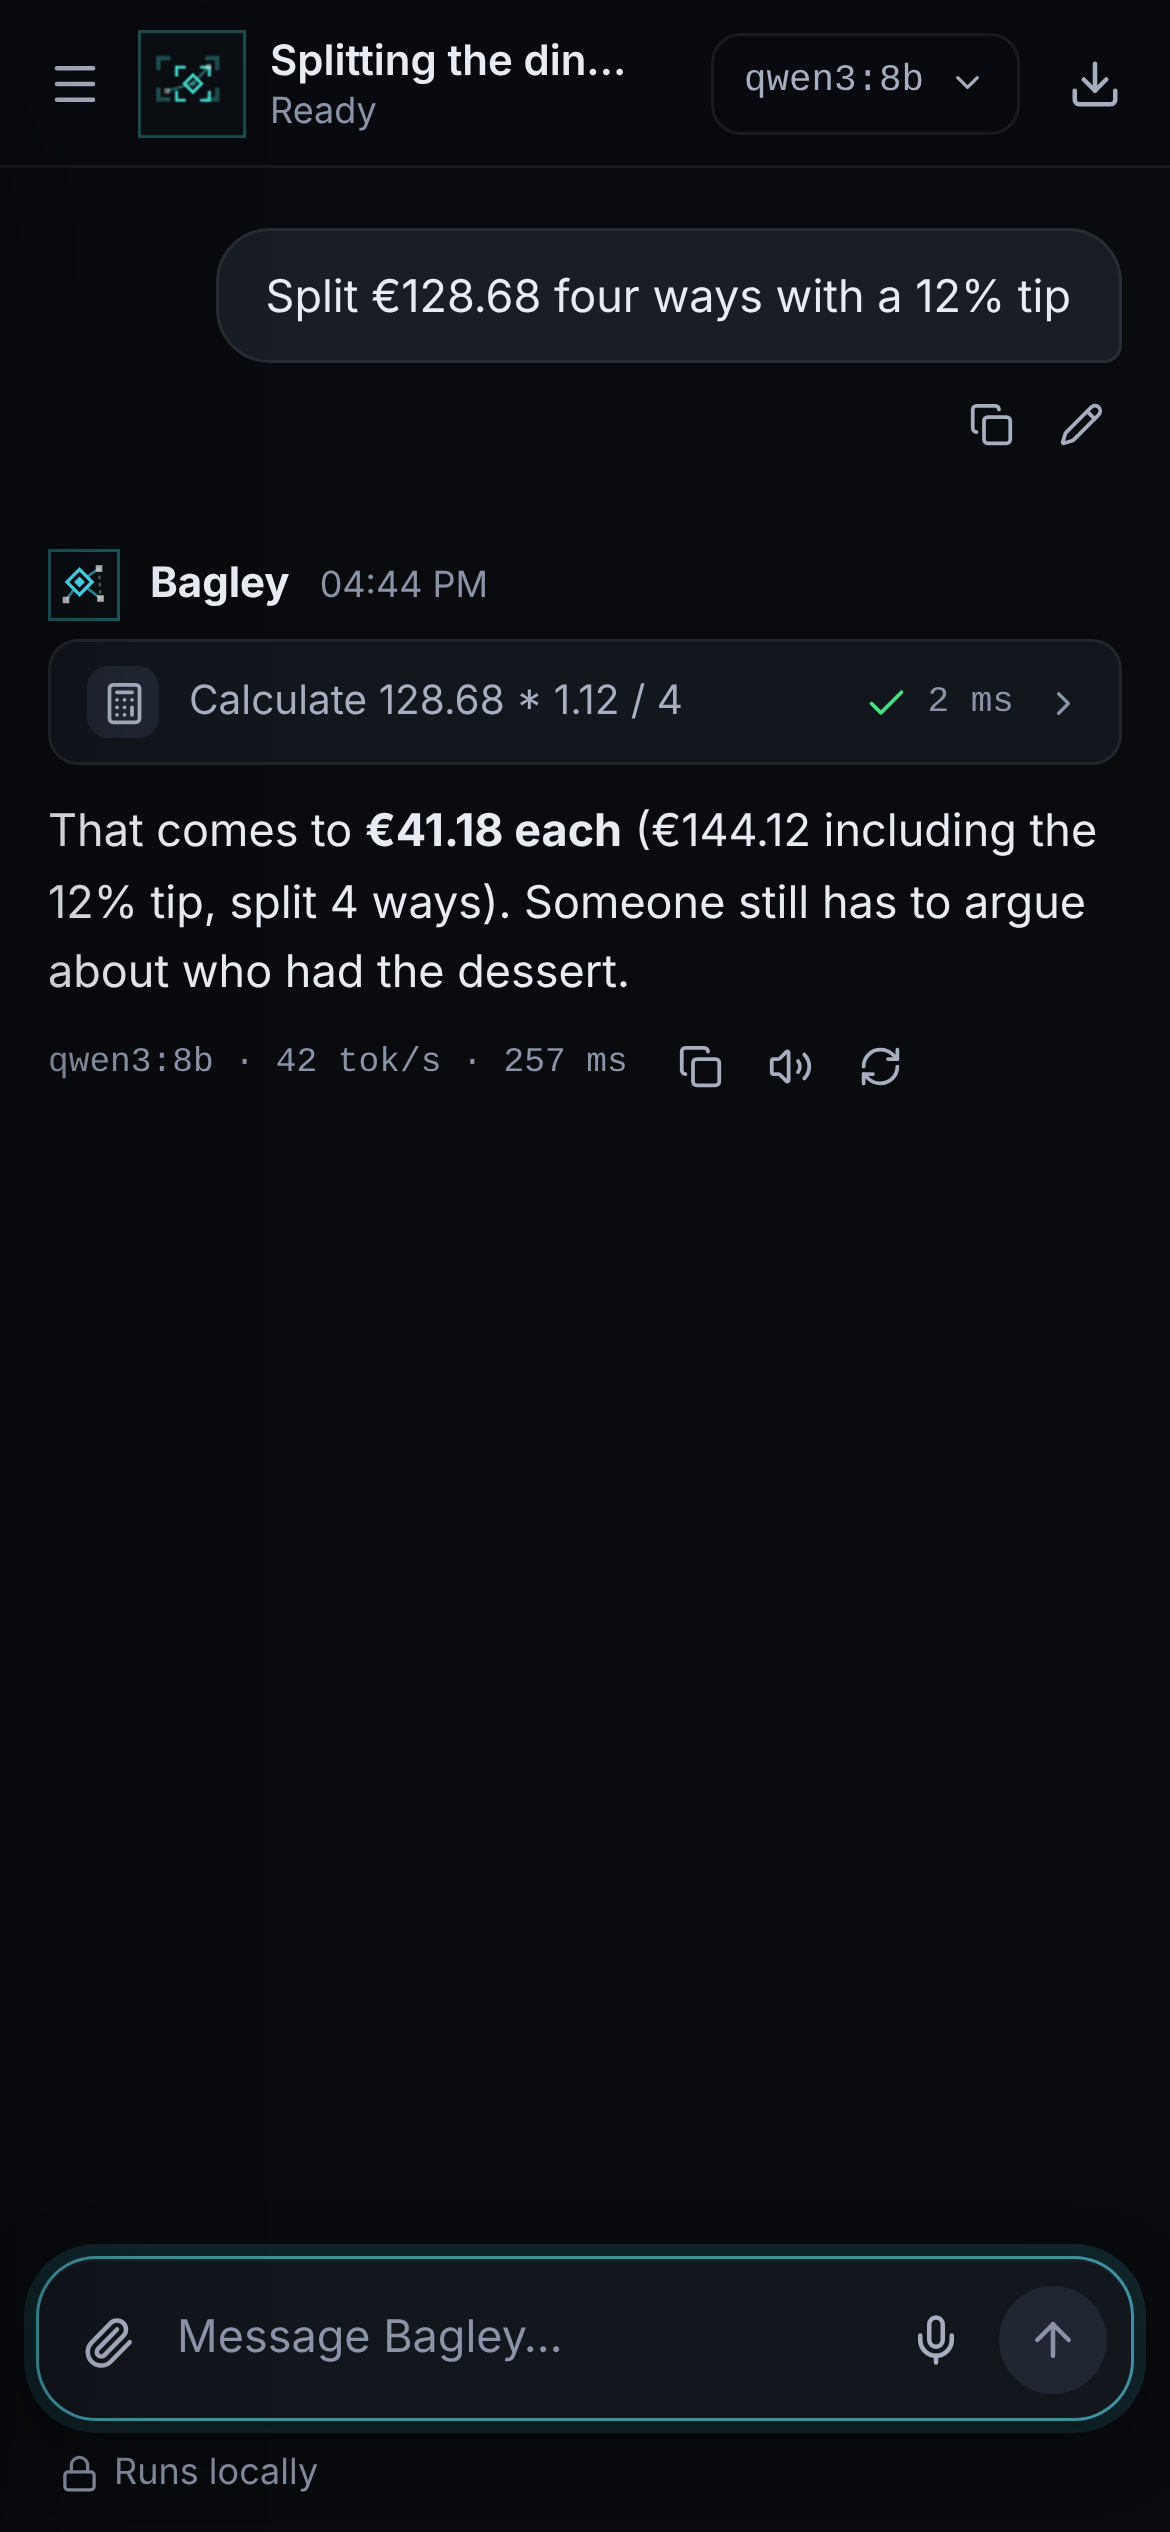
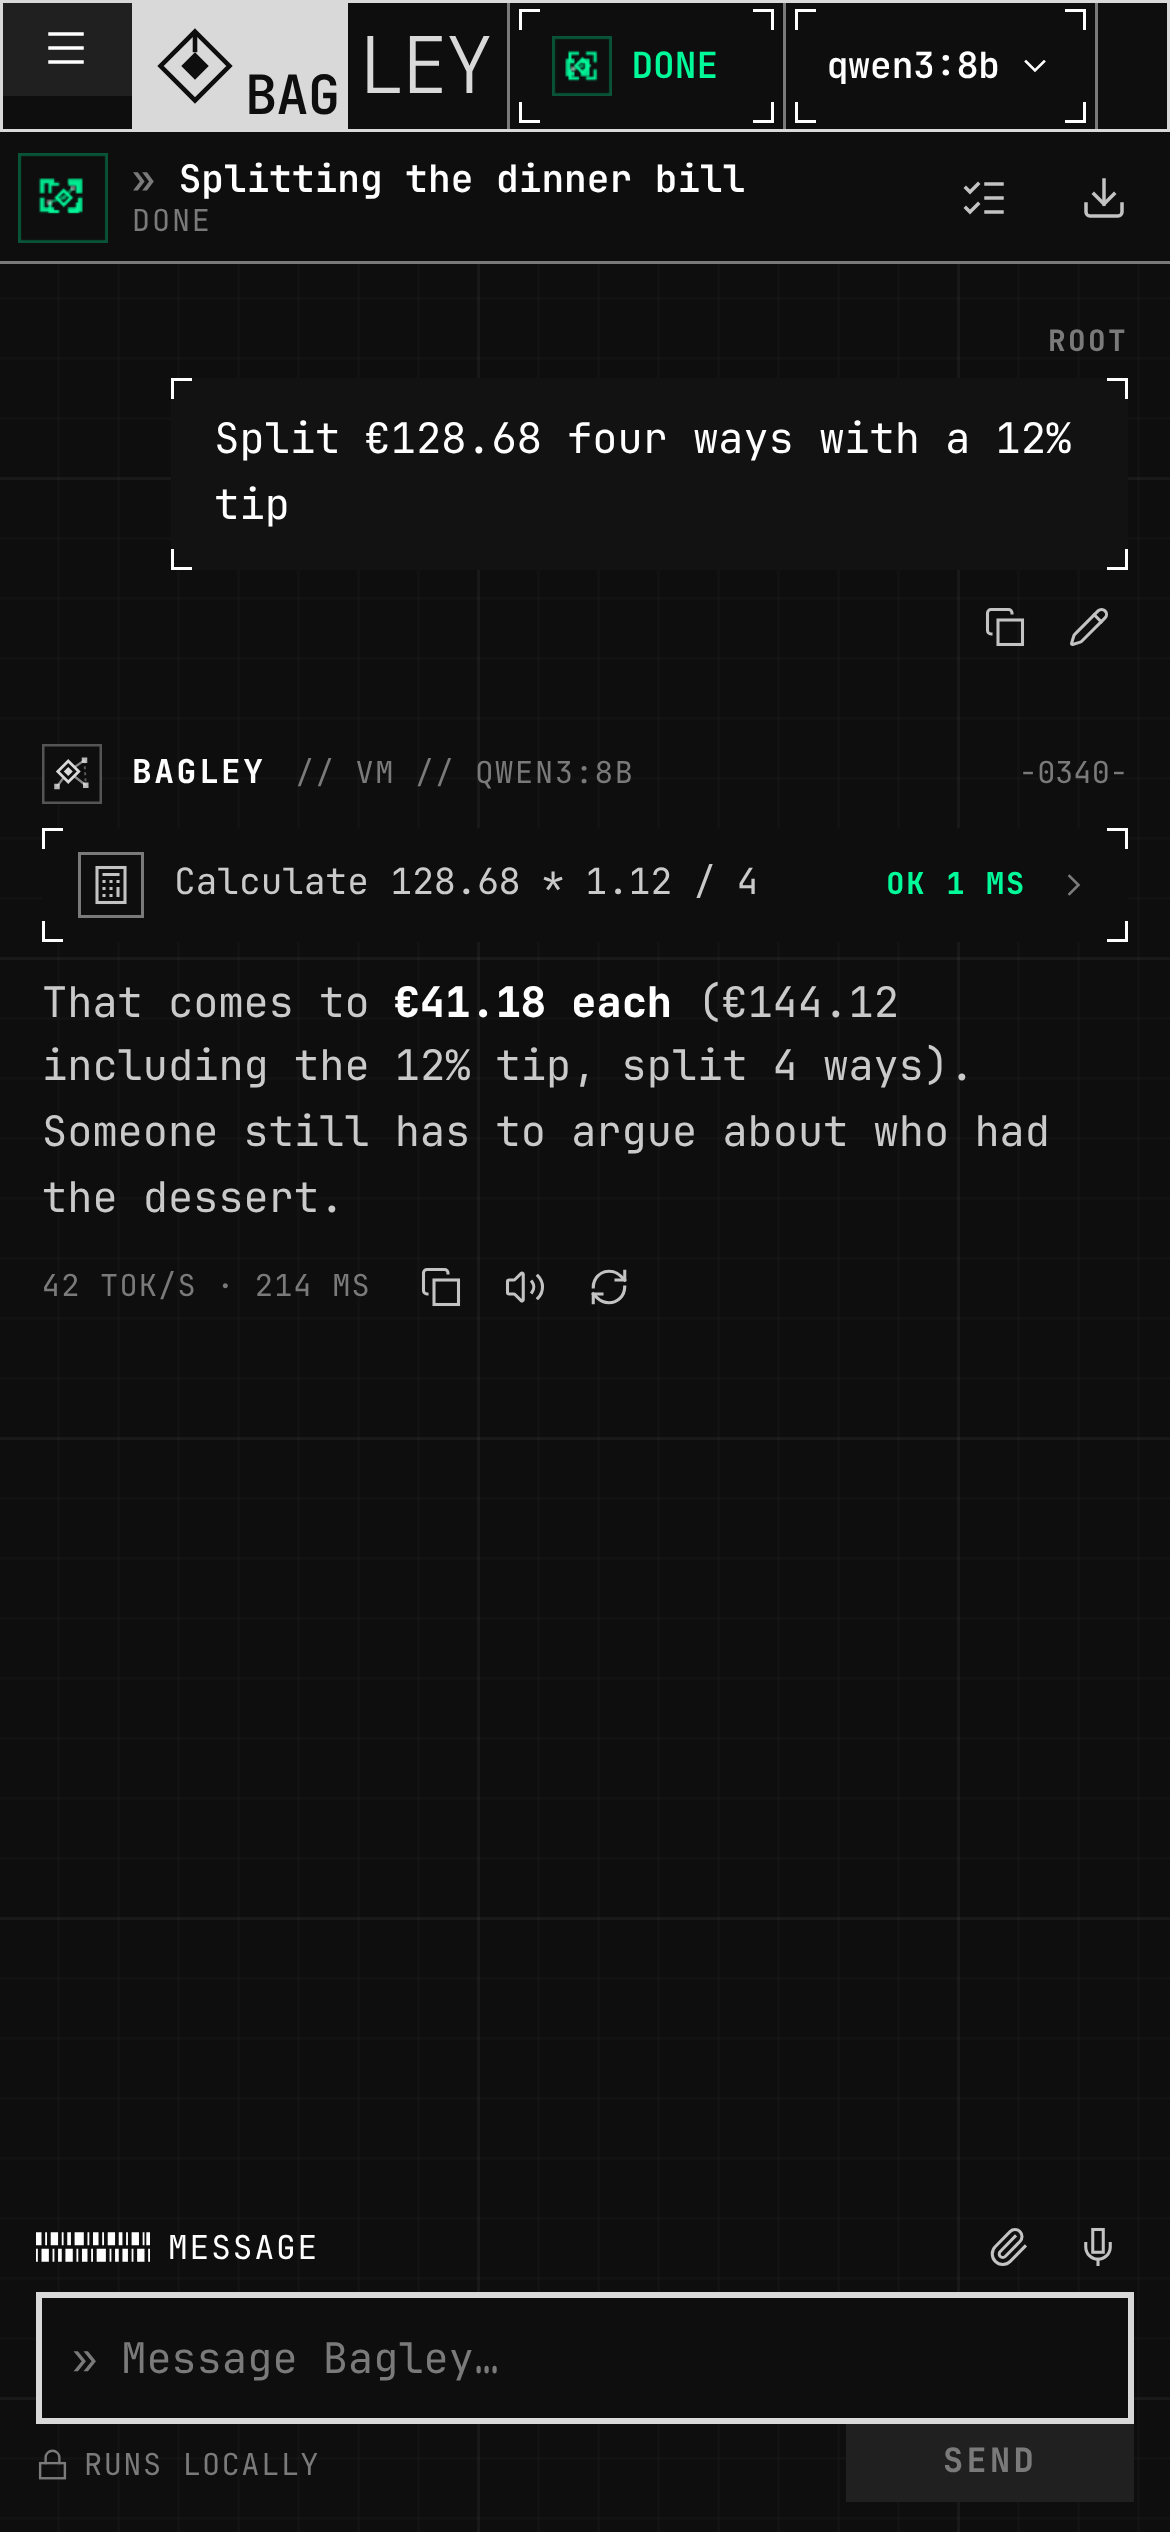
Show Bagley online when another machine answers, and refresh the screenshots
When this machine's model server is down but routing reaches another
machine (a GPU desktop, Claude), the connection readout says which one
answers, the avatar isn't offline and the setup card stays hidden. The
setup card now offers a hosted API with your own key as a way in.

The router forgot nothing when a machine's address or key changed, so
it kept reporting the old server online for up to 30 seconds; it now
drops cached health on those changes.

README screenshots are regenerated in the ctOS look (chart.png needs
matplotlib, which this environment lacks, so it is unchanged; its
colours are now ctOS for the next run).

Claude-Session: https://claude.ai/code/session_01HcSZq8qbsoAbTp5E7dLEuU

diff --git a/bagley/static/js/main.js b/bagley/static/js/main.js
@@ -25,9 +25,12 @@ const BUSY = ["thinking", "reasoning", "tool", "writing"];
 let settleTimer;
 let currentStatus = "idle";
 
+/** Another machine answers (a GPU desktop, Claude) while this one's model server doesn't. */
+const routedElsewhere = () => !!state.route?.ok && state.route.machine_id !== "local";
+
 function setStatus(name, label, tool = "") {
   clearTimeout(settleTimer);
-  const offline = !state.connected || (state.health && !state.health.ok);
+  const offline = !state.connected || (state.health && !state.health.ok && !routedElsewhere());
   if (name === "idle" && offline) name = "offline";
   if (name === "idle" && !state.run && state.activity && state.activity.state !== "idle") {
     // Another client (the desktop overlay, the phone, an automation) has Bagley busy.
@@ -159,6 +162,7 @@ async function loadMachines() {
   }
   renderNode();
   renderStats();
+  if (state.health && !state.health.ok) bus.emit("health"); // The route may cover for it.
   machinesTimer = setTimeout(loadMachines, 45000);
 }
 
@@ -731,6 +735,9 @@ function renderConnection() {
   } else if (h.ok) {
     dot.className = "dot warn";
     label.textContent = "No models installed";
+  } else if (routedElsewhere()) {
+    dot.className = "dot ok";
+    label.textContent = `Online // ${state.route.machine}`;
   } else {
     dot.className = "dot bad";
     label.textContent = "Model server offline";
@@ -799,7 +806,7 @@ function renderSetup() {
   const box = $("#setup");
   const h = state.health;
   const suggestions = $("#suggestions");
-  if (!h || (h.ok && h.models && h.installed !== false)) {
+  if (!h || (h.ok && h.models && h.installed !== false) || (!h.ok && routedElsewhere())) {
     box.hidden = true;
     suggestions.hidden = false;
     return;
@@ -808,6 +815,10 @@ function renderSetup() {
   box.hidden = false;
   const retry = el("button", { class: "btn btn-primary", type: "button", onclick: async () => { retry.disabled = true; await refreshHealth(); await loadModels(); retry.disabled = false; } }, icon("refresh-cw", "icon-sm"), "Check again");
   const openSettings = el("button", { class: "btn", type: "button", onclick: () => settings.open("model") }, icon("settings", "icon-sm"), "Model settings");
+  const useKey = el("button", { class: "btn", type: "button", onclick: () => {
+    settings.open("model");
+    $("#settings-panel .hosted")?.scrollIntoView({ block: "center" });
+  } }, icon("key-round", "icon-sm"), "Use an API key");
 
   if (!h.ok) {
     box.replaceChildren(
@@ -817,8 +828,9 @@ function renderSetup() {
         el("li", {}, "Install ", el("a", { href: "https://ollama.com/download", target: "_blank", rel: "noopener", text: "Ollama" }), " (or start LM Studio, llama.cpp or any OpenAI-compatible server)."),
         el("li", {}, "Download a model with tool support:", cmdLine("ollama pull qwen3:4b")),
         el("li", {}, "Make sure the server is running, then check again. Using another server, port or your GPU machine? Change it in model settings."),
+        el("li", {}, "No local model? Use Claude or another hosted API with your own key."),
       ),
-      el("div", { class: "setup-actions" }, retry, openSettings),
+      el("div", { class: "setup-actions" }, retry, openSettings, useKey),
     );
     return;
   }

diff --git a/scripts/screenshots.py b/scripts/screenshots.py
@@ -36,14 +36,35 @@ rows = list(csv.DictReader(open("sales.csv")))
 months = [r["month"] for r in rows]
 revenue = [float(r["revenue"]) for r in rows]
 plt.style.use("dark_background")
-fig, ax = plt.subplots(figsize=(7, 3), facecolor="#11151b")
-ax.set_facecolor("#11151b")
-ax.bar(months, revenue, color="#27d3ee", width=0.6)
+fig, ax = plt.subplots(figsize=(7, 3), facecolor="#0e0e0e")
+ax.set_facecolor("#0e0e0e")
+ax.bar(months, revenue, color="#d9d9d9", width=0.6)
 ax.set_title("Revenue by month (k EUR)", loc="left", fontsize=11)
 ax.spines[["top", "right"]].set_visible(False)
 best = max(rows, key=lambda r: float(r["revenue"]))
 print(f"total {sum(revenue):.0f}k, best month {best['month']} ({best['revenue']}k)")
 """
+
+
+def chart(stack: DemoStack, page_for, ask) -> None:
+    page = page_for(1440, 900)
+    stack.mock.script = [
+        Reply(
+            reasoning="sales.csv is in the workspace; a bar chart per month answers this.",
+            tool_calls=[("run_python", {"code": CHART_CODE})],
+        ),
+        Reply(
+            text="Revenue totals **412k** over six months. June was the best month at "
+            "**88k**, and every month after March grew."
+        ),
+    ]
+    ask(page, "Chart my monthly revenue from sales.csv", approve=True)
+    page.click(".approval .btn-primary")
+    page.wait_for_selector(".tool-media img")
+    page.wait_for_selector("#send-btn:not(.stop)")
+    page.wait_for_timeout(1700)
+    page.screenshot(path=OUT / "chart.png")
+    page.context.close()
 
 
 def capture(stack: DemoStack) -> None:
@@ -156,25 +177,13 @@ def capture(stack: DemoStack) -> None:
         page.screenshot(path=OUT / "diff.png")
         page.context.close()
 
-        # 8. Python with a chart.
-        page = page_for(1440, 900)
-        stack.mock.script = [
-            Reply(
-                reasoning="sales.csv is in the workspace; a bar chart per month answers this.",
-                tool_calls=[("run_python", {"code": CHART_CODE})],
-            ),
-            Reply(
-                text="Revenue totals **412k** over six months. June was the best month at "
-                "**88k**, and every month after March grew."
-            ),
-        ]
-        ask(page, "Chart my monthly revenue from sales.csv", approve=True)
-        page.click(".approval .btn-primary")
-        page.wait_for_selector(".tool-media img")
-        page.wait_for_selector("#send-btn:not(.stop)")
-        page.wait_for_timeout(1700)
-        page.screenshot(path=OUT / "chart.png")
-        page.context.close()
+        # 8. Python with a chart (needs matplotlib in the environment Bagley runs).
+        try:
+            import matplotlib  # noqa: F401
+        except ImportError:
+            print("matplotlib is not installed: keeping the old chart.png")
+        else:
+            chart(stack, page_for, ask)
 
         # 9. Light theme.
         page = page_for(1440, 900, theme="light")

diff --git a/tests/test_ui.py b/tests/test_ui.py
@@ -434,3 +434,29 @@ def test_shell_tab_suggests_without_running(page, stack):
     page.keyboard.press("Enter")
     expect(page.locator(".shell-out .term")).to_have_text("find ~ -size +1G")
     expect(page.locator(".shell-out")).to_contain_text("not run")
+
+
+def test_claude_answers_when_this_machine_has_no_model_server(page, stack, monkeypatch):
+    from tests.test_claude import FakeClaude, _patched, anthropic, reply
+
+    api = FakeClaude()
+    api.script = [reply(text="Hello from Claude.")]
+    monkeypatch.setattr(anthropic, "AsyncAnthropic", _patched(api, anthropic.AsyncAnthropic))
+    stack.runtime.update_preferences({"base_url": "http://127.0.0.1:9"})
+    page.reload()
+    expect(page.locator("#setup")).to_contain_text("Use Claude or another hosted API")
+    page.click("#setup button:has-text('Use an API key')")
+    expect(page.locator(".hosted-api[data-preset='claude']")).to_be_in_viewport()
+    page.keyboard.press("Escape")
+
+    stack.runtime.update_preferences(
+        {"machines": [{"id": "claude", "name": "Claude", "role": "cloud", "provider": "anthropic",
+                       "base_url": "https://api.anthropic.com", "api_key": "sk-ant-ui"}]}
+    )  # fmt: skip
+    page.reload()
+    expect(page.locator("#conn-label")).to_have_text("Online // CLAUDE", timeout=15000)
+    expect(page.locator("#setup")).to_be_hidden()
+    send(page, "hi")
+    wait_idle(page)
+    expect(page.locator(".turn-assistant .prose")).to_contain_text("Hello from Claude.")
+    expect(page.locator(".turn-assistant .node")).to_contain_text("CLAUDE // claude-opus-5-5")

diff --git a/tests/test_routing.py b/tests/test_routing.py
@@ -193,3 +193,14 @@ async def test_machine_keys_survive_the_browser_round_trip(machines):
     public[1]["base_url"] = "http://elsewhere/v1"
     rt.update_preferences({"machines": public})
     assert rt.preferences()[0].machines[1].api_key == ""
+
+
+async def test_changing_a_server_forgets_its_cached_health(make_runtime):
+    rt = make_runtime()
+    prefs, _ = rt.preferences()
+    await rt.router.status(prefs)
+    assert "local" in rt.router._health
+    rt.update_preferences({"temperature": 0.3})
+    assert "local" in rt.router._health  # Unrelated settings keep it.
+    rt.update_preferences({"base_url": "http://127.0.0.1:9"})
+    assert rt.router._health == {}  # Not the 30-second-old "online" of the old address.

diff --git a/bagley/routing.py b/bagley/routing.py
@@ -162,6 +162,11 @@ class Router:
 
     # Health ---------------------------------------------------------------------------------
 
+    def forget(self) -> None:
+        """Drop cached health, e.g. after a machine's address or key changed."""
+        self._health.clear()
+        self._down_until.clear()
+
     def mark_down(self, machine: MachineSpec) -> None:
         self._down_until[machine.id] = time.monotonic() + DOWN_FOR
         self._health.pop(machine.id, None)

diff --git a/bagley/runtime.py b/bagley/runtime.py
@@ -122,6 +122,8 @@ class Runtime:
             field = ".".join(str(p) for p in first["loc"])
             raise ValueError(f"{field}: {first['msg']}") from exc
         self.store.set_preferences(changes)
+        if moved or "api_key" in changes or "machines" in changes:
+            self.router.forget()  # Health measured against the old settings no longer holds.
         return self.preferences()
 
     @staticmethod
